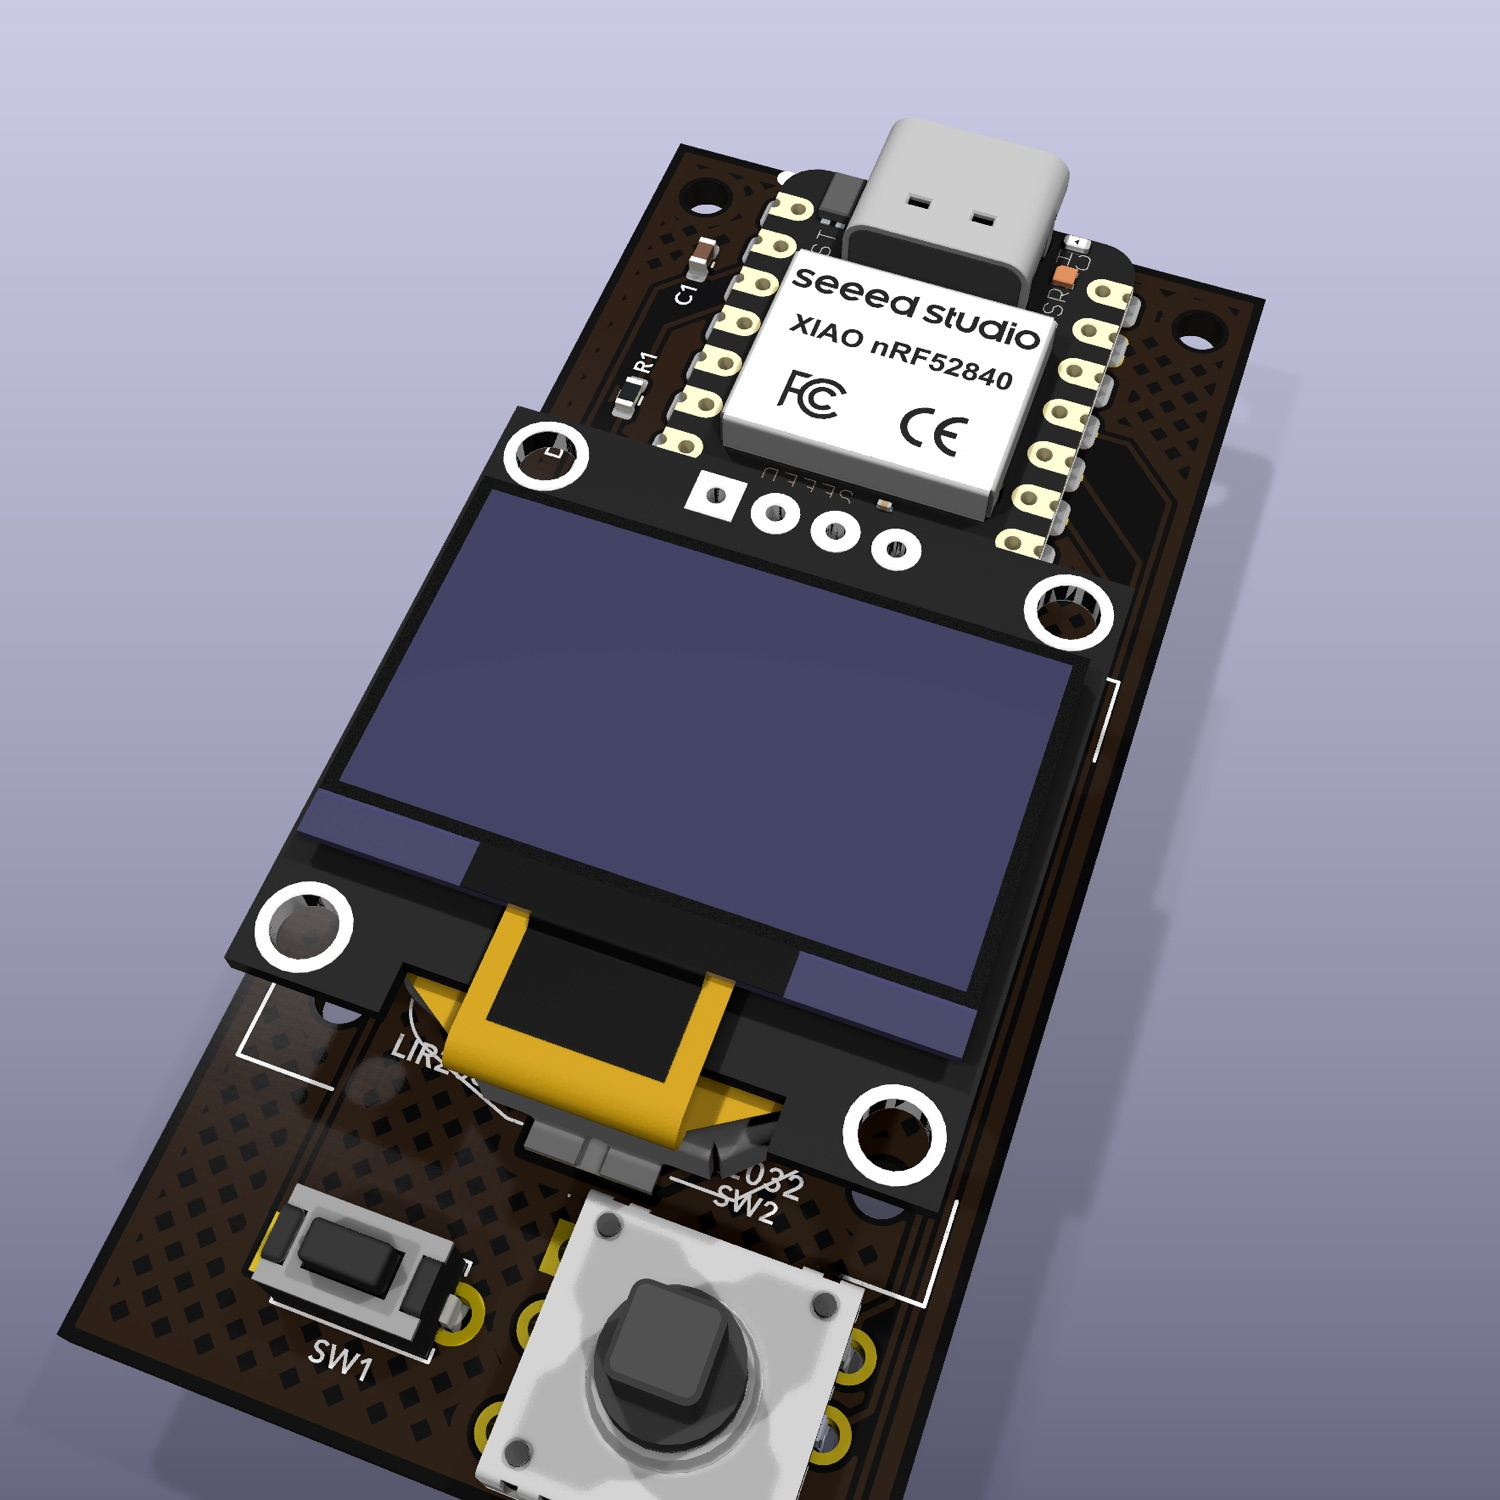
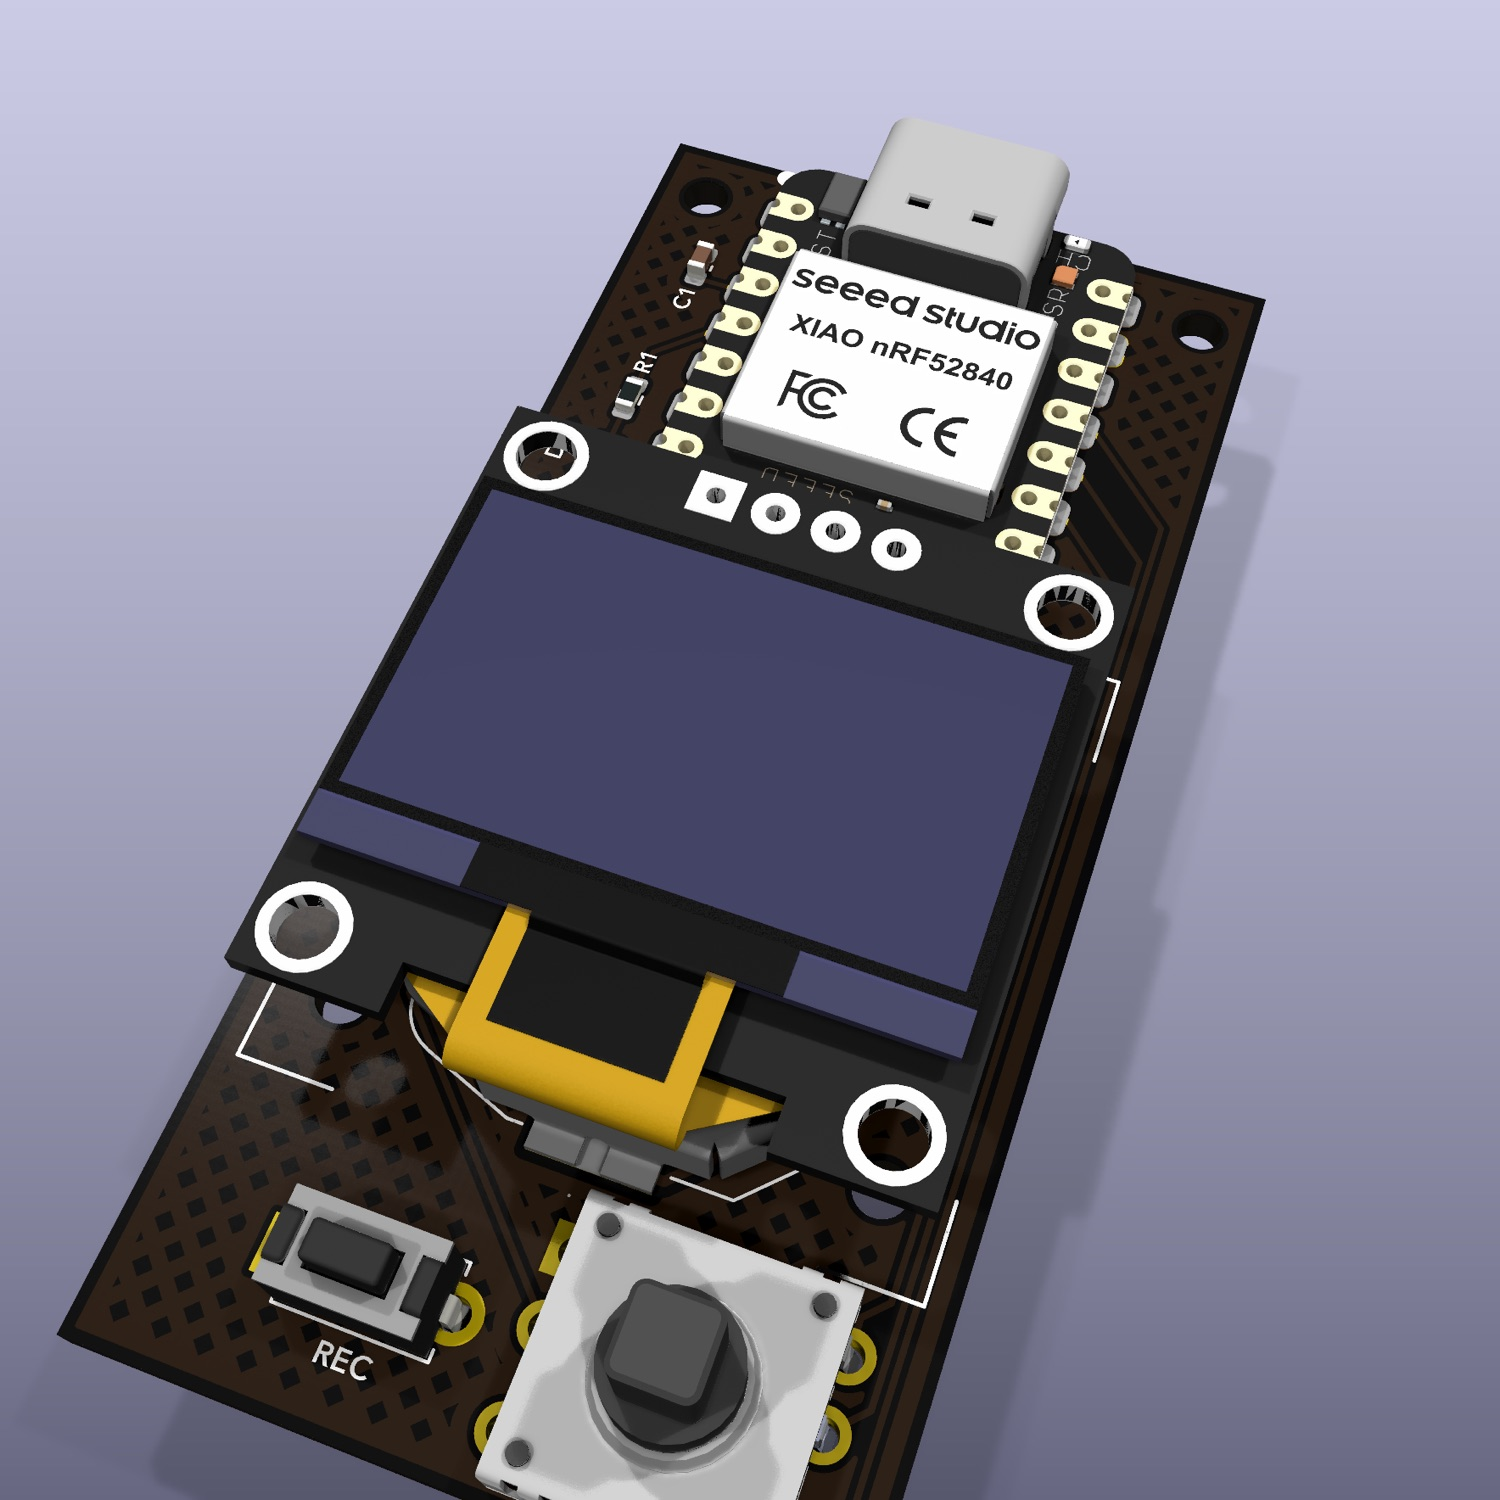
盤の最新版に合わせて更新
- レンダリングと製品画像を作り直し（ピン最適化後・OLED枠は角のみ・REC シルク入り）
- SW1 → REC ボタンに表記を統一
- 仕様表に部品名と内蔵RGBの色分けを追記
- 電池を LIR2032 のみ・CR2032 不可と明記（基板にも刷ってある）

diff --git a/index.html b/index.html
@@ -266,7 +266,8 @@ SD   28.4G
 LEFT 1:42:00
 MODE VIDEO      5.3K60
 REMOTE 92%</div>
-        <div class="caveat">3台つないで1台目を録画中。SD 残量 28.4GB、あと 1時間42分、5.3K60、リモコンの電池 92%</div>
+        <div class="caveat">3台つないで1台目を録画中。SD 残量 28.4GB、あと 1時間42分、5.3K60、リモコンの電池 92%。
+          下の <b>REC</b> が録画ボタン、右が5方向スイッチ</div>
         <div class="branch" style="margin-top:22px">
           <div class="br ok"><div class="k">30.1 × 62.1mm</div><div class="sub">2層 / 黒レジスト・白シルク・ENIG</div></div>
         </div>
@@ -357,7 +358,7 @@ REMOTE 88%</div>
     <div class="branch">
       <div class="br ok"><div class="k">左右</div><div class="sub">カメラを選ぶ（ALL → 1 → 2 …）</div></div>
       <div class="br ok"><div class="k">上下</div><div class="sub">画面を切り替える</div></div>
-      <div class="br ok"><div class="k">SW1</div><div class="sub">REC 開始 / 停止。これだけ独立させてある</div></div>
+      <div class="br ok"><div class="k">REC ボタン</div><div class="sub">録画の開始 / 停止。<b>これだけ独立した押しボタン</b>にしてある。手袋のまま、画面を見ずに押せる</div></div>
     </div>
   </div>
 </section>
@@ -397,12 +398,16 @@ REMOTE 88%</div>
       <div><img class="fig" src="images/top.jpg" alt="おもて面"></div>
       <div><img class="fig" src="images/bottom.jpg" alt="うら面"></div>
     </div>
+    <div class="branch" style="margin-top:34px">
+      <div class="br ok"><div class="k">電池は表裏どちらでも</div><div class="sub">同じ座標に表裏ランドがあり、実装するのは片方だけ。ケースの作りで選べる</div></div>
+      <div class="br no"><div class="k">CR2032 は使えない</div><div class="sub">一次電池を入れて USB を挿すと充電しようとする。基板にも <b>LIR2032 ONLY - NO CR2032</b> と刷ってある</div></div>
+    </div>
     <table class="ov">
       <tr><td>MCU</td><td>Seeed XIAO nRF52840（技適 211-220207 / 内蔵アンテナ）</td></tr>
       <tr><td>表示</td><td>0.96" 128×64 有機EL（SSD1306 / I2C）</td></tr>
-      <tr><td>操作</td><td>タクトSW ×1（REC 専用）＋ 5方向スイッチ ×1</td></tr>
-      <tr><td>表示灯</td><td>赤 LED（タリー）＋ モジュール内蔵 RGB</td></tr>
-      <tr><td>電源</td><td>LIR2032（充電式コイン電池）。USB-C で充電</td></tr>
+      <tr><td>操作</td><td>REC 専用ボタン（APEM MJTP1250）＋ 5方向スイッチ（BRIGHT TSX101G100-250）</td></tr>
+      <tr><td>表示灯</td><td>赤 LED（タリー）＋ モジュール内蔵 RGB（緑=待機 / 赤=録画 / 黄=警告 / 青=探索）</td></tr>
+      <tr><td>電源</td><td><b>LIR2032 のみ</b>（充電式リチウムイオン）。USB-C で充電。<b>CR2032 は不可</b></td></tr>
       <tr><td>基板</td><td>30.1 × 62.1mm / 2層 / 1oz / 黒レジスト・白シルク・ENIG</td></tr>
       <tr><td>対応</td><td>GoPro HERO9 以降（Open GoPro BLE API）</td></tr>
       <tr><td>同時接続</td><td>最大 4台</td></tr>

diff --git a/README.md b/README.md
@@ -19,7 +19,7 @@
 | | |
 |---|---|
 | 表示 | SD の有無と残量 / あと何秒録れるか / 動画モードか / 解像度・FPS / 過熱 / ペアリング状態 |
-| 操作 | タクトSW（REC 専用）＋ 5方向スイッチ（カメラ選択・画面切替） |
+| 操作 | **REC 専用ボタン**（APEM MJTP1250）＋ 5方向スイッチ（カメラ選択・画面切替） |
 | 同時接続 | **最大 4台**。1台ずつでも、全台まとめてでも |
 | ペアリング | GoPro Labs の QR を**画面に表示**。基板裏にもシルクで刷ってある |
 
@@ -29,7 +29,7 @@
 |---|---|
 | MCU | Seeed XIAO nRF52840（技適 211-220207 / 内蔵アンテナ） |
 | 表示 | 0.96" 128×64 有機EL（SSD1306 / I2C） |
-| 電源 | LIR2032（充電式コイン電池）。USB-C で充電 |
+| 電源 | **LIR2032 のみ**（充電式リチウムイオン）。USB-C で充電。**CR2032 は不可** |
 | 基板 | 30.1 × 62.1mm / 2層 / 1oz / 黒レジスト・白シルク・ENIG |
 | 対応 | GoPro HERO9 以降（Open GoPro BLE API） |
 
